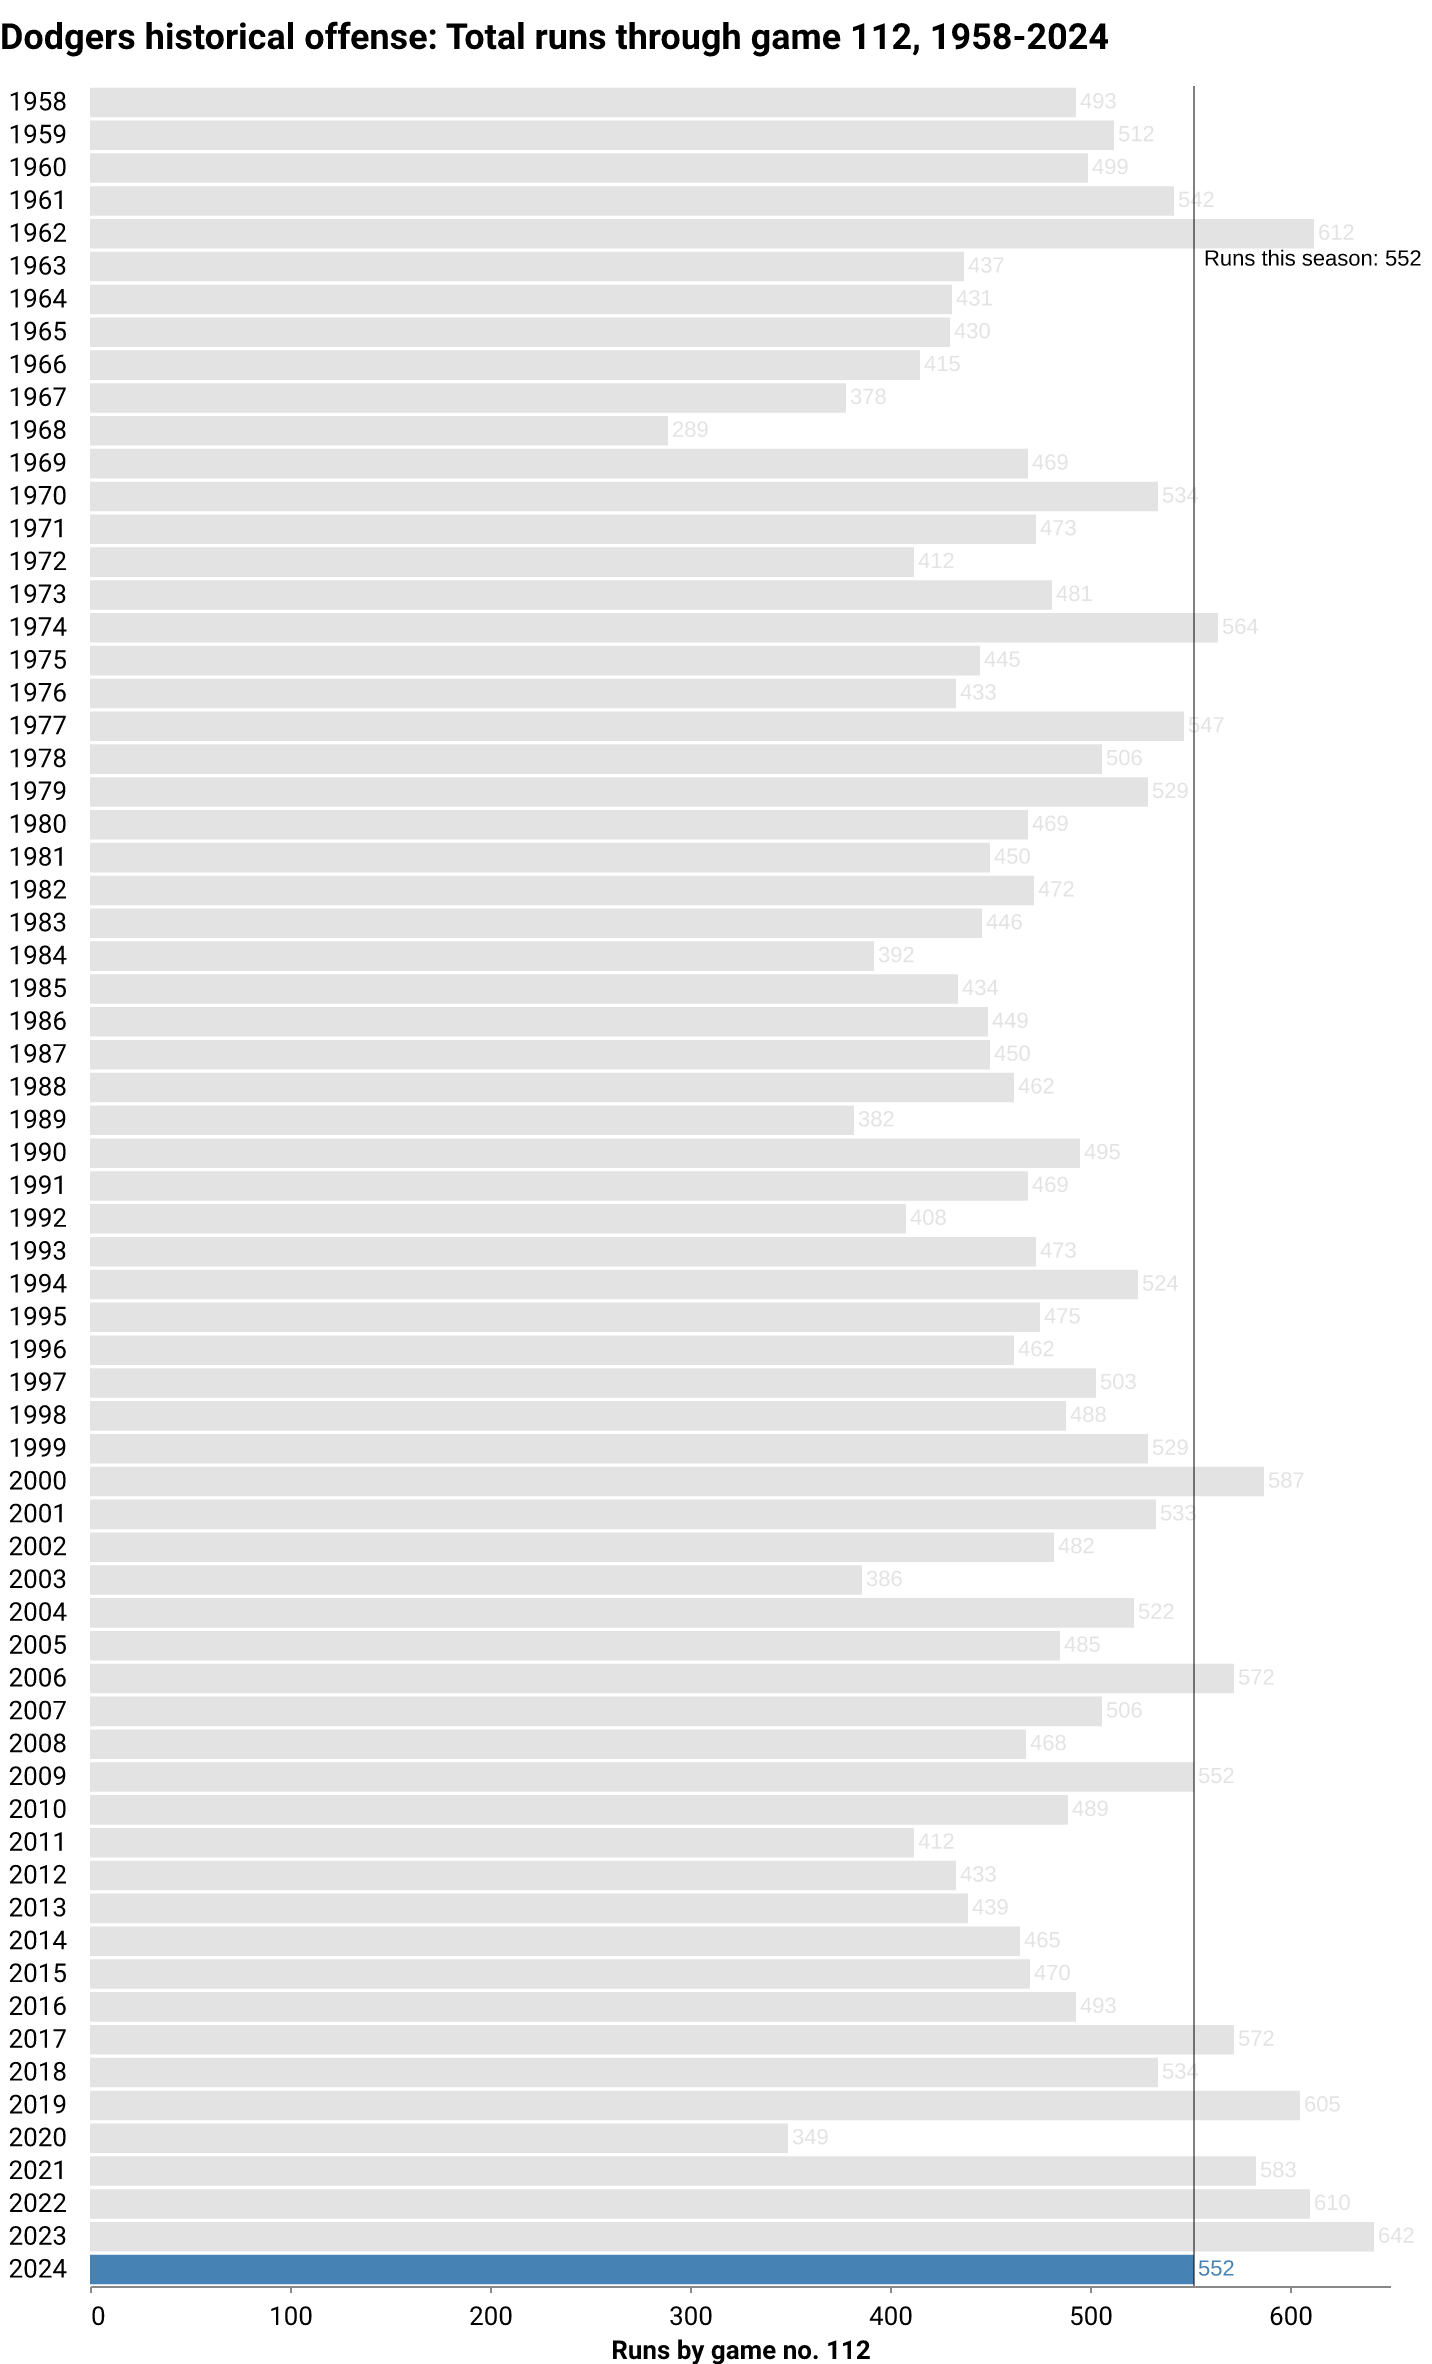
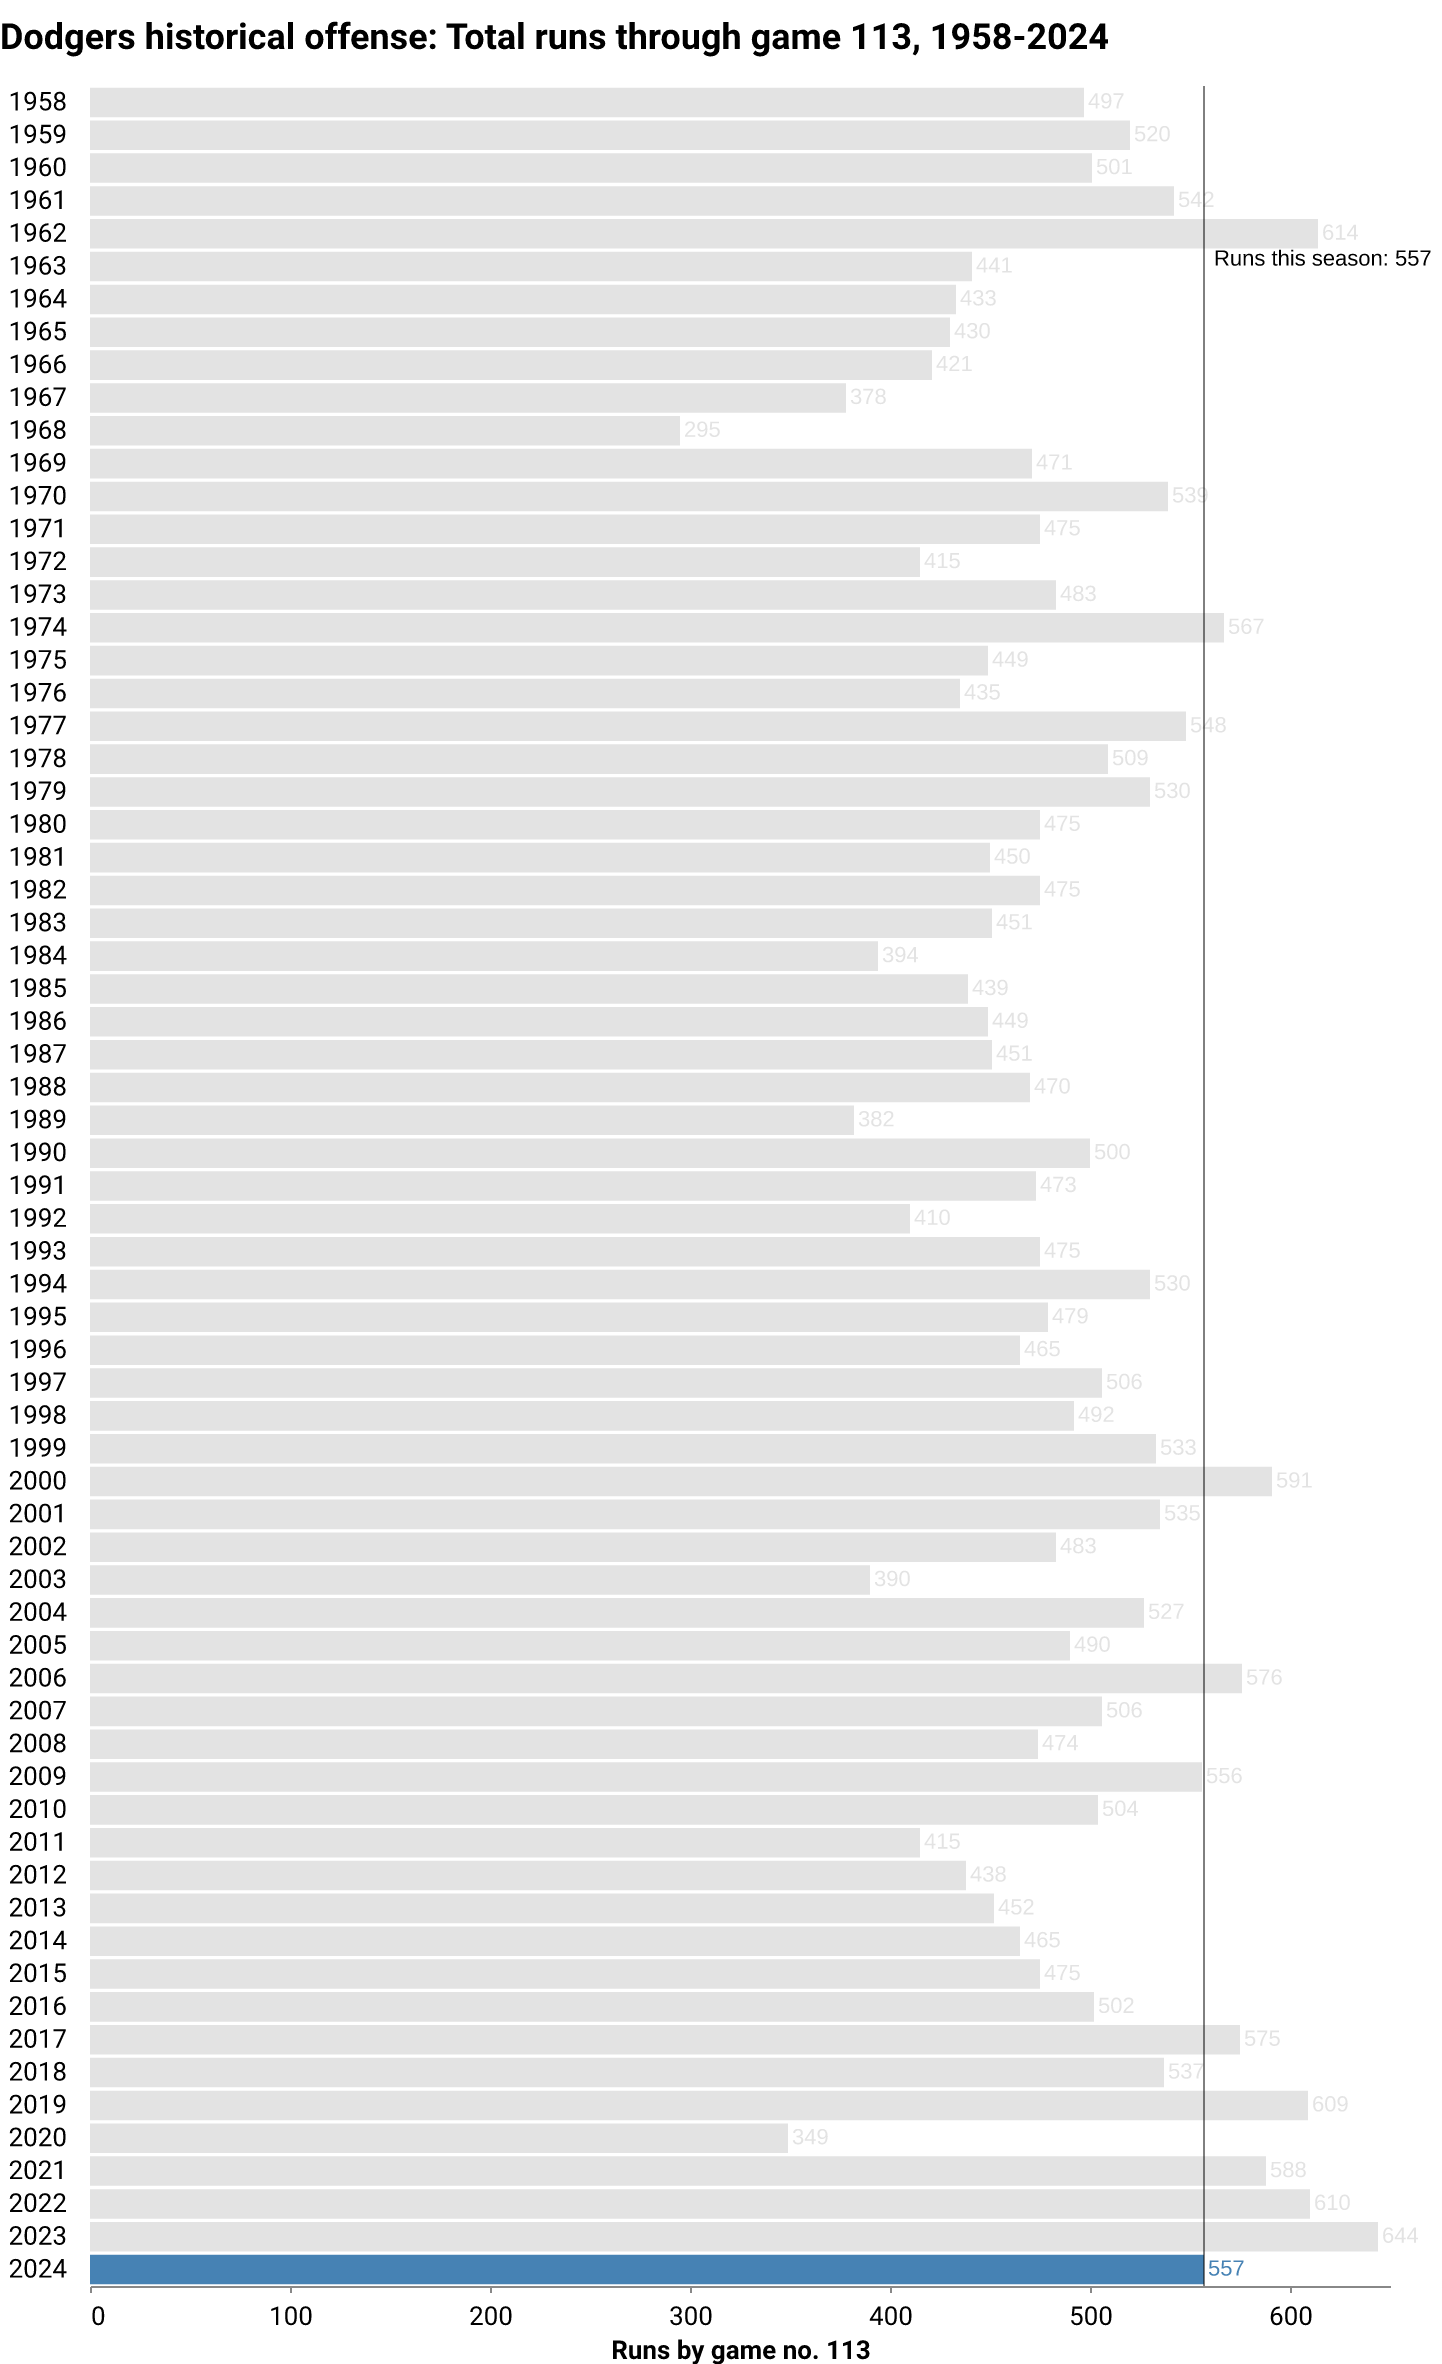
deploy: ca493bb7fcb44fffdaa6255dc157feb564eaa370

diff --git a/index.html b/index.html
@@ -184,7 +184,7 @@
 <p class="subhead">
     
     
-    <span class="highlight">LOS ANGELES</span> <span class="updated">(August 6)</span> — After <span class="highlight">112</span> games this season, the Dodgers are in <span class="highlight">1st</span> place in the National League West division. The team has compiled a <span class="highlight">65-47</span> record, winning <span class="highlight">57%</span> of its games so far. The last game was a <span class="highlight">3-2</span> away <span class="highlight">win</span> against the Oakland Athletics in front of <span class="highlight">25,544</span> fans. They've won <span class="highlight">4 of the last 10</span>.
+    <span class="highlight">LOS ANGELES</span> <span class="updated">(August 6)</span> — After <span class="highlight">113</span> games this season, the Dodgers are in <span class="highlight">1st</span> place in the National League West division. The team has compiled a <span class="highlight">66-47</span> record, winning <span class="highlight">57%</span> of its games so far. The last game was a <span class="highlight">5-3</span> home <span class="highlight">win</span> against the Philadelphia Phillies in front of <span class="highlight">48,178</span> fans. They've won <span class="highlight">5 of the last 10</span>.
 </p>
 </div>
 
@@ -206,10 +206,10 @@
             Wins
           </div>
           <div class="card-body">
-            <p class="card-text">65</p>
+            <p class="card-text">66</p>
           </div>
           <div class="card-footer text-muted">
-        This point last season: 66
+        This point last season: 67
           </div>
         </div>
       </div>
@@ -238,10 +238,10 @@
             Record
           </div>
           <div class="card-body">
-            <p class="card-text">65-47</p>
+            <p class="card-text">66-47</p>
           </div>
           <div class="card-footer text-muted">
-        This point last season: 66-46
+        This point last season: 67-46
           </div>
         </div>
       </div>
@@ -270,7 +270,7 @@
             Games up/back
           </div>
           <div class="card-body">
-            <p class="card-text">4.5</p>
+            <p class="card-text">5.0</p>
           </div>
           <div class="card-footer text-muted">
         Division rank: 1
@@ -286,10 +286,10 @@
             Avg. home attendance
           </div>
           <div class="card-body">
-            <p class="card-text">48,227</p>
+            <p class="card-text">48,226</p>
           </div>
           <div class="card-footer text-muted">
-        Home games this season: 54
+        Home games this season: 55
           </div>
         </div>
       </div>
@@ -302,7 +302,7 @@
             Runs
           </div>
           <div class="card-body">
-            <p class="card-text">552</p>
+            <p class="card-text">557</p>
           </div>
           <div class="card-footer text-muted">
         League rank: 2
@@ -318,7 +318,7 @@
             Runs against
           </div>
           <div class="card-body">
-            <p class="card-text">456</p>
+            <p class="card-text">459</p>
           </div>
           <div class="card-footer text-muted">
         This point last season: 522
@@ -334,10 +334,10 @@
             Run differential
           </div>
           <div class="card-body">
-            <p class="card-text">96</p>
+            <p class="card-text">98</p>
           </div>
           <div class="card-footer text-muted">
-        This point last season: 120
+        This point last season: 122
           </div>
         </div>
       </div>
@@ -424,7 +424,7 @@
             Home runs
           </div>
           <div class="card-body">
-            <p class="card-text">149</p>
+            <p class="card-text">151</p>
           </div>
           <div class="card-footer text-muted">
         League rank: 1
@@ -440,7 +440,7 @@
             Home runs/game
           </div>
           <div class="card-body">
-            <p class="card-text">1.33</p>
+            <p class="card-text">1.34</p>
           </div>
           <div class="card-footer text-muted">
         Last decade average: 1.36
@@ -472,7 +472,7 @@
             Stolen bases
           </div>
           <div class="card-body">
-            <p class="card-text">72</p>
+            <p class="card-text">73</p>
           </div>
           <div class="card-footer text-muted">
         League rank: 10
@@ -488,7 +488,7 @@
             Stolen bases/game
           </div>
           <div class="card-body">
-            <p class="card-text">0.64</p>
+            <p class="card-text">0.65</p>
           </div>
           <div class="card-footer text-muted">
         Rate all last season: 0.65
@@ -598,7 +598,7 @@
             Strikeouts
           </div>
           <div class="card-body">
-            <p class="card-text">961</p>
+            <p class="card-text">973</p>
           </div>
           <div class="card-footer text-muted">
         League rank: 7
@@ -614,10 +614,10 @@
             Walks
           </div>
           <div class="card-body">
-            <p class="card-text">348</p>
+            <p class="card-text">349</p>
           </div>
           <div class="card-footer text-muted">
-        League rank: 12
+        League rank: 11
           </div>
         </div>
       </div>
@@ -630,10 +630,10 @@
             ERA
           </div>
           <div class="card-body">
-            <p class="card-text">3.78</p>
+            <p class="card-text">3.77</p>
           </div>
           <div class="card-footer text-muted">
-        League rank: 5
+        League rank: 4
           </div>
         </div>
       </div>
@@ -708,7 +708,7 @@
     </div>
 </div>
 
-  <p class="dated">Notes: Last updated August 6, 2024, 12:03 AM PT. More <a href="https://github.com/stiles/dodgers/blob/main/README.md">about the data</a>.</p>
+  <p class="dated">Notes: Last updated August 6, 2024, 4:03 AM PT. More <a href="https://github.com/stiles/dodgers/blob/main/README.md">about the data</a>.</p>
   
 </div>
 
